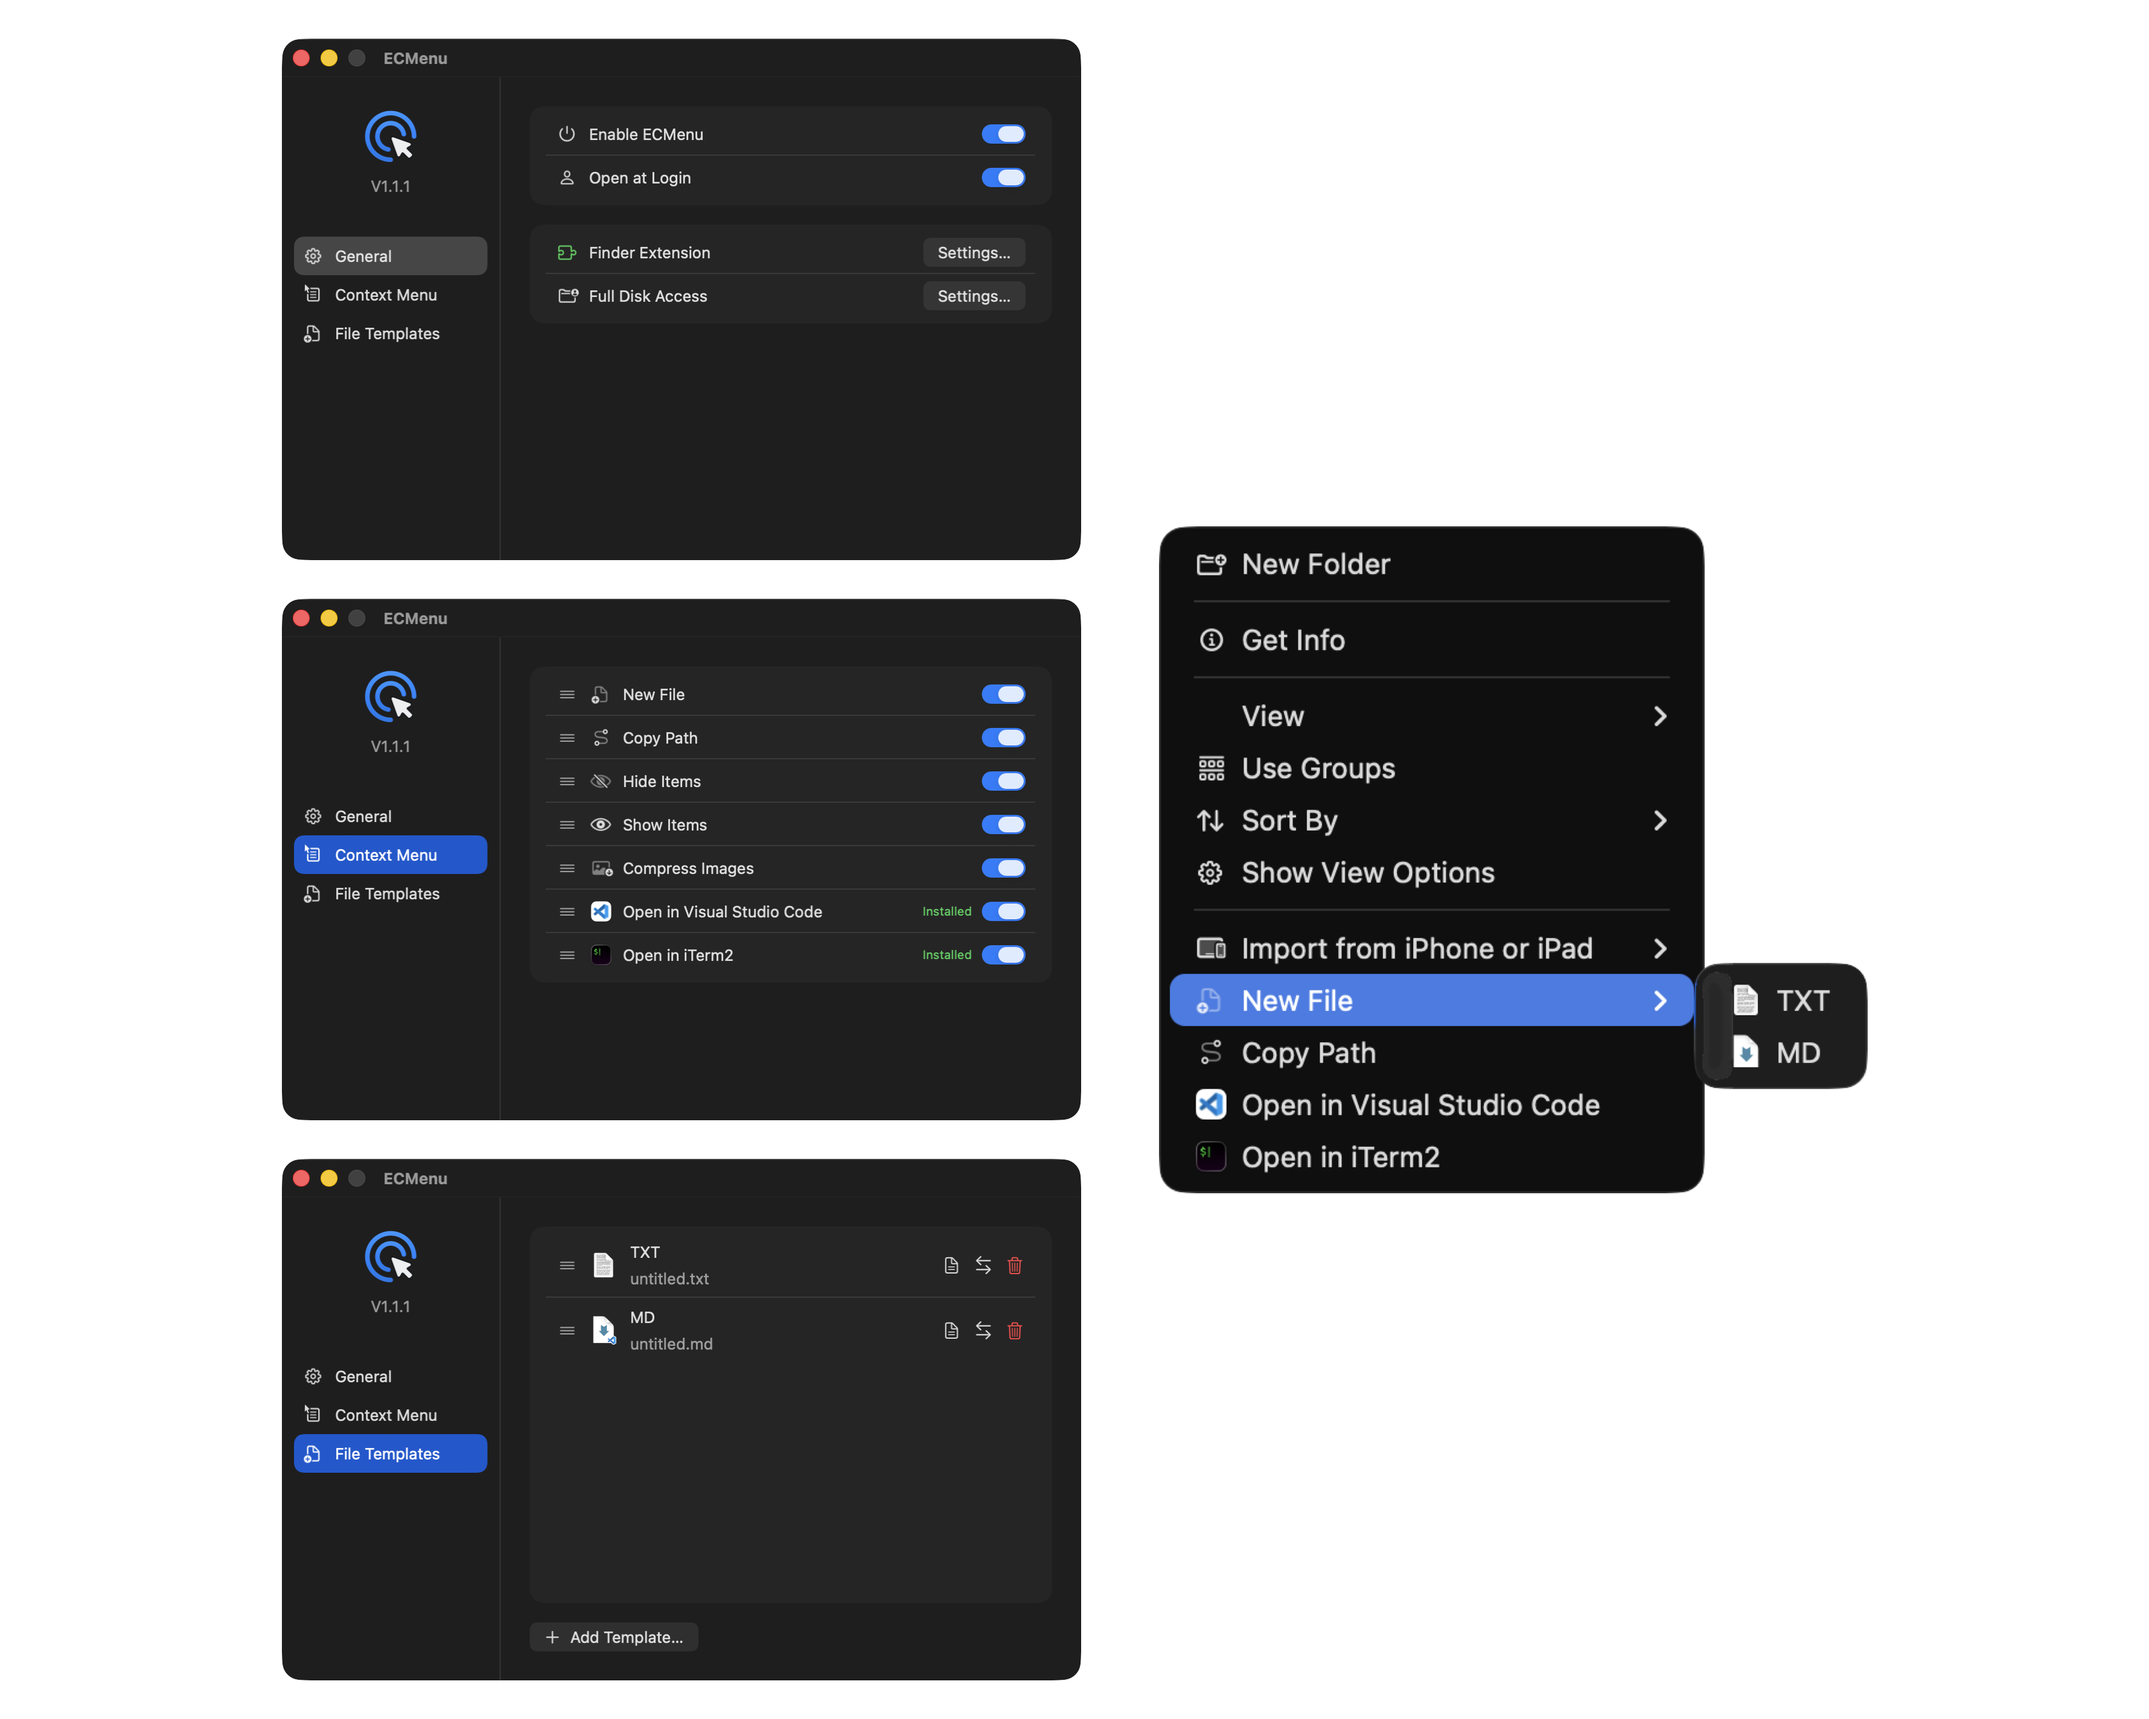
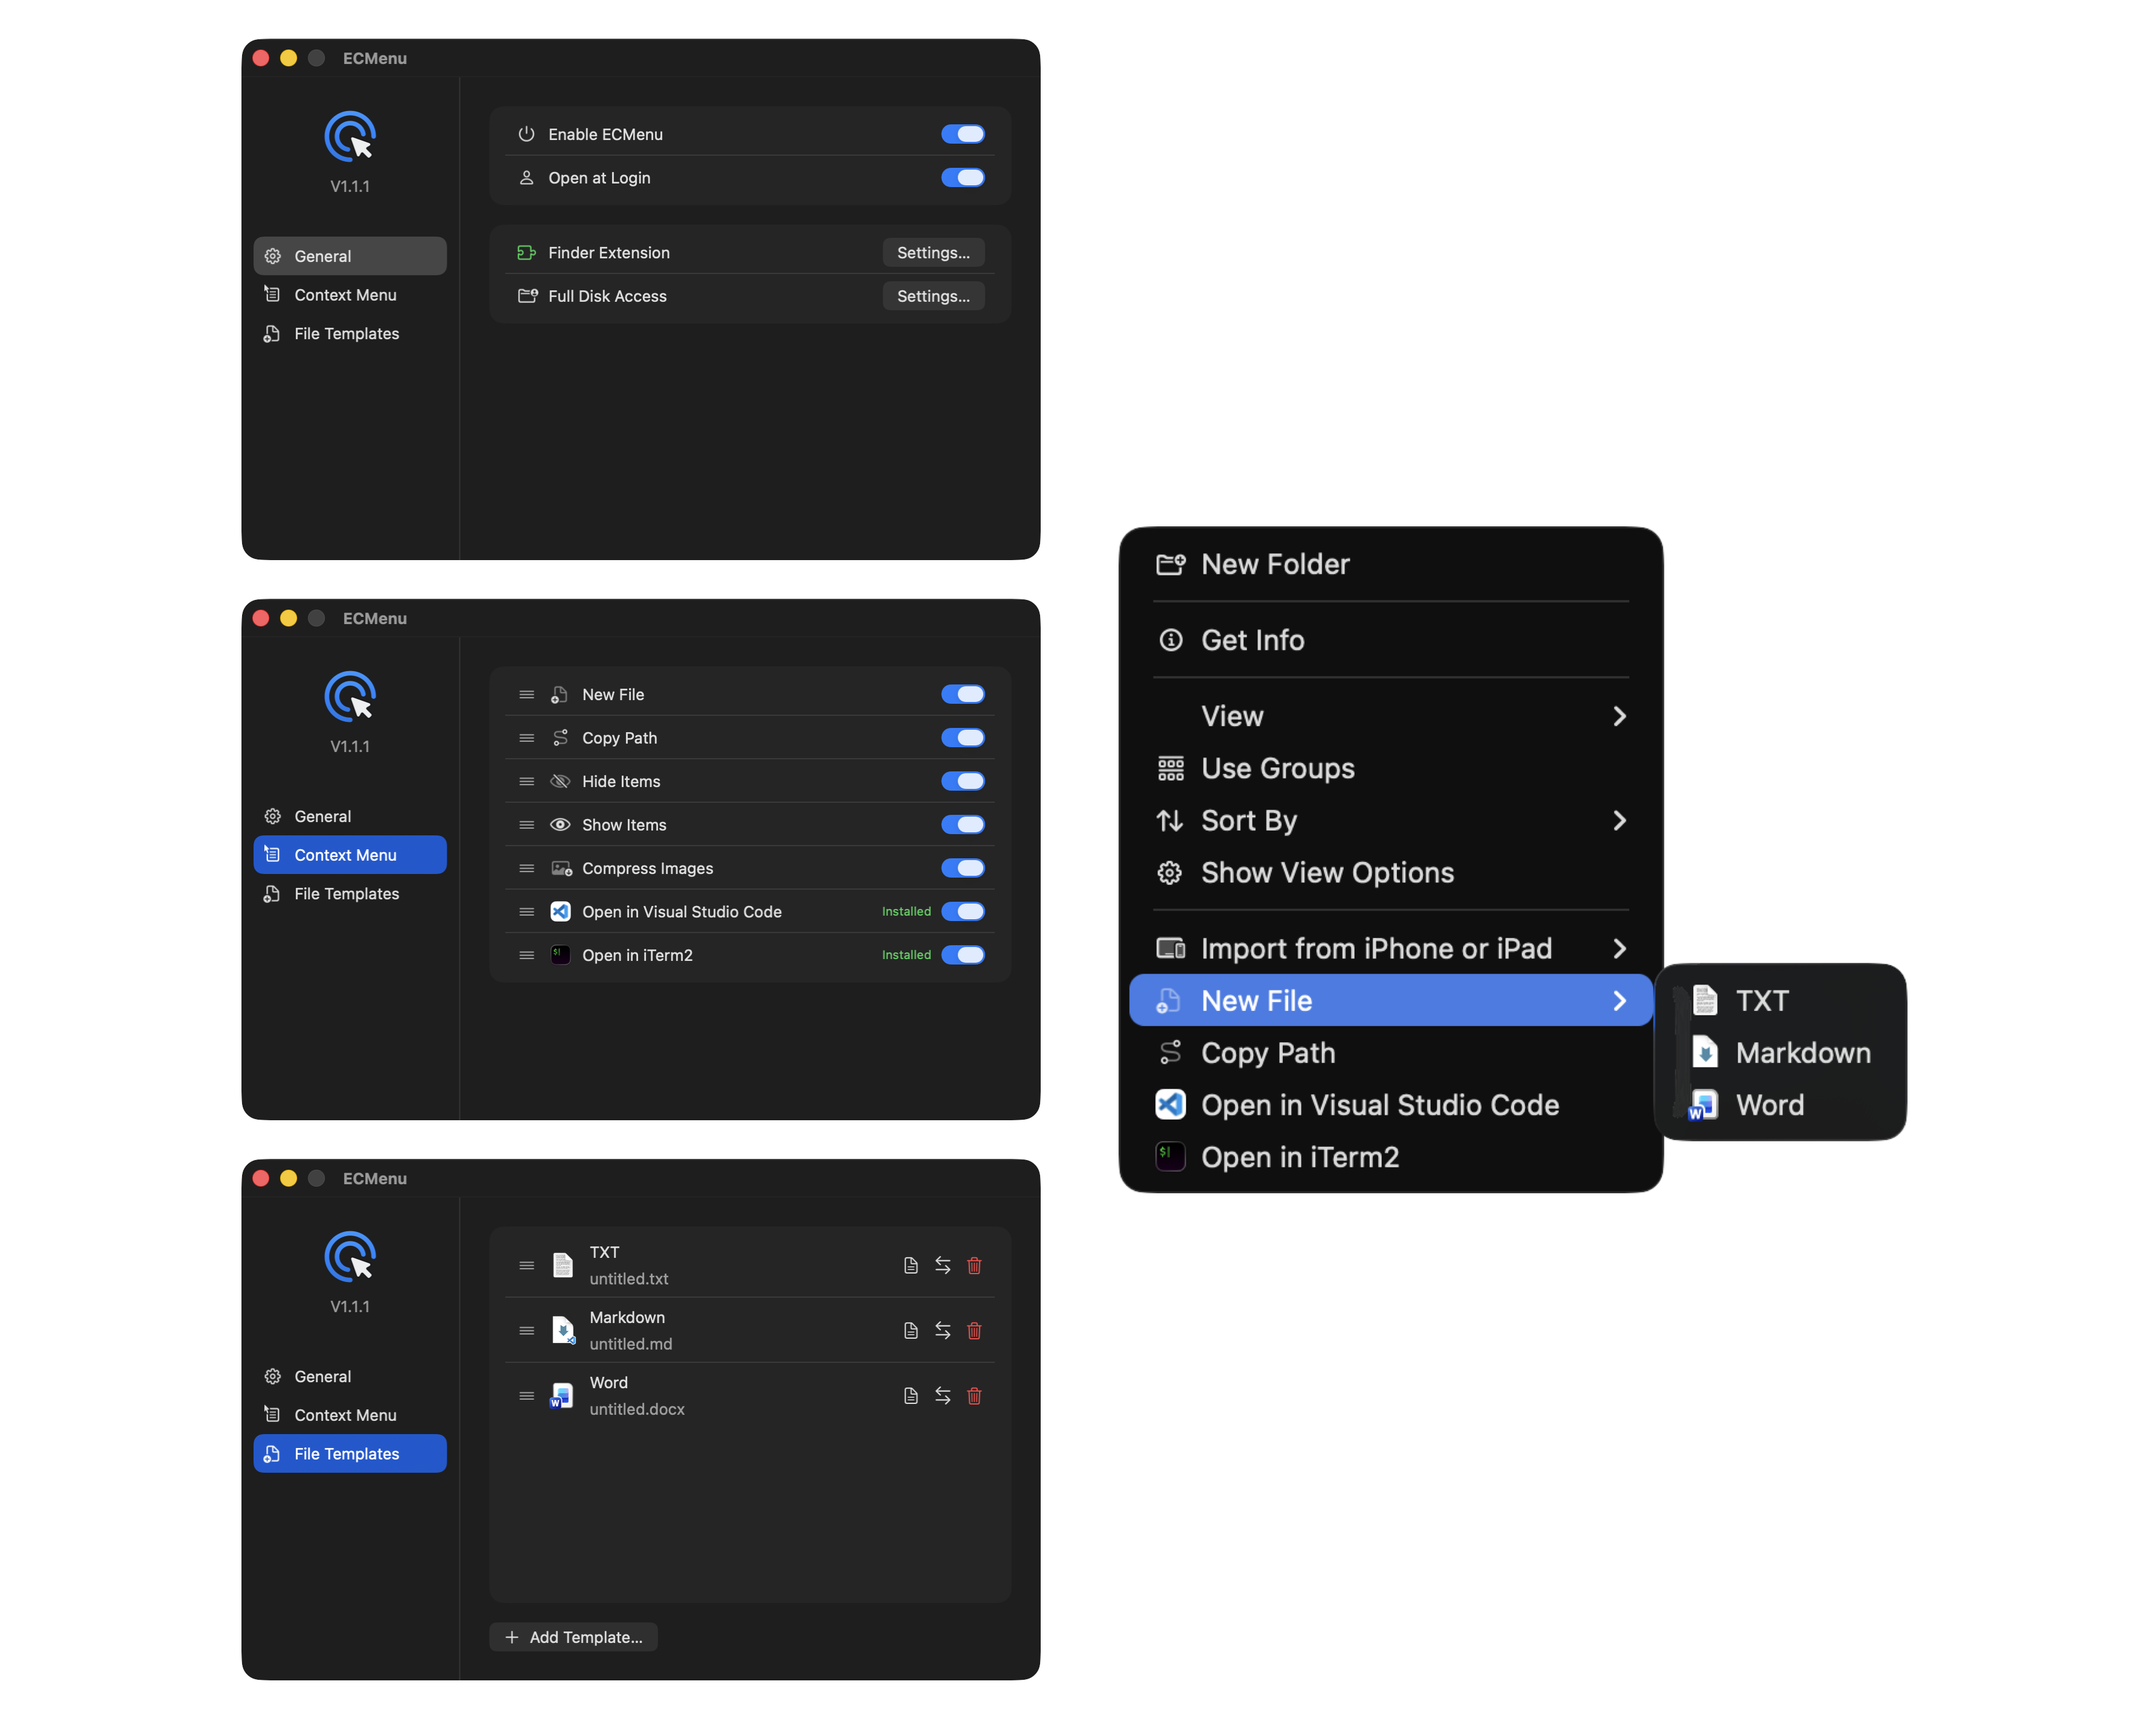
Update readme screenshots

diff --git a/Tests/ECMenuPreviews/Cases/READMEStatusPagePreview.swift b/Tests/ECMenuPreviews/Cases/READMEStatusPagePreview.swift
@@ -39,7 +39,8 @@ private enum READMEStatusPagePreviewState {
             applicationIcons: applicationIcons,
             fileTemplateState: .ready([
                 try! FileTemplate(displayName: "TXT", defaultFileName: "untitled.txt"),
-                try! FileTemplate(displayName: "MD", defaultFileName: "untitled.md"),
+                try! FileTemplate(displayName: "Markdown", defaultFileName: "untitled.md"),
+                try! FileTemplate(displayName: "Word", defaultFileName: "untitled.docx"),
             ])
         )
     }

diff --git a/spec/Technical/PreviewTarget.md b/spec/Technical/PreviewTarget.md
@@ -73,6 +73,6 @@
 
 批量截图脚本构建一次 Preview target，从注册表验证全部或调用方指定的场景，并串行捕获每个场景的英文和简体中文版本。Preview runtime 负责激活唯一可见顶层窗口；窗口成为 key window、完成布局和绘制，且窗口编号与尺寸跨一轮主循环保持稳定后，才通过标准输出发送 `READY <windowNumber>`。脚本按该窗口编号生成不含阴影的独立窗口截图，圆角外保持透明；截图完成后，runtime 再确认应用与窗口在整段捕获期间没有失焦，只保留通过确认的图片。截图不依赖辅助功能或外部模拟点击，批量截图与交互预览互斥运行。
 
-README 设置页场景分别覆盖通用、右键菜单和文件模板三个页面，与状态覆盖场景使用不同 Preview ID：前者固定全部开关开启，并在 Preview 边界通过 Launch Services 严格读取所需外部应用的真实图标；后者继续保留未批准、未启用和应用缺失等状态。README 文件模板页面固定使用 TXT 与 MD 两条内存样例。两者只共享生产 renderer 与无副作用的预览会话，不向产品代码加入文档截图分支。
+README 设置页场景分别覆盖通用、右键菜单和文件模板三个页面，与状态覆盖场景使用不同 Preview ID：前者固定全部开关开启，并在 Preview 边界通过 Launch Services 严格读取所需外部应用的真实图标；后者继续保留未批准、未启用和应用缺失等状态。README 文件模板页面依次使用 TXT、Markdown、Word 三条内存样例，对应 `.txt`、`.md`、`.docx` 后缀。两者只共享生产 renderer 与无副作用的预览会话，不向产品代码加入文档截图分支。
 
 构建、启动与截图参数见[开发脚本](../../scripts/Main.md#界面预览)。

diff --git a/spec/Technical/Architecture/Verification.md b/spec/Technical/Architecture/Verification.md
@@ -24,7 +24,7 @@
 
 ## 界面与真实 Finder
 
-1.1.1 中英文 README 图片由当前生产界面和真实 Finder 菜单重新捕获，运行标识 `20260911-220437-readme-image-capture-42365`。两张图片均为 3560 × 2848、5:4 透明画布，三个设置页纵向排列且显示 V1.1.1；新建文件展开一层 TXT/MD 子菜单，图标、文字和按钮完整可见。截图后恢复原 Debug 模板库、菜单偏好及语言，Finder 普通窗口数仍为零。版本化图片和 README 引用检查、图标设计源一致性检查通过。
+1.1.1 中英文 README 图片由生产设置页和真实 Finder 菜单捕获：设置预览运行标识 `20260911-233132-localized-previews-53120`，菜单为 `20260911-233326-finder-menu-capture-54042`，合成为 `20260911-233408-readme-composition-54734`。两张图片均为 3560 × 2848、5:4 透明画布，三个设置页纵向排列且显示 V1.1.1；模板页和新建文件一级子菜单依次显示 TXT、Markdown、Word，对应 `.txt`、`.md`、`.docx`，图标、文字和按钮完整可见。拍摄结束后恢复 Release 环境及原两个 Finder 目录窗口，模板内容与相关偏好前后核对一致。版本化图片和 README 引用检查通过。
 
 2026-09-11 独立中文 Preview `20260911-214156-preview-ui-38659` 确认文件模板导航与新建文件设置行的 `document.badge.plus` 完整显示，模板行的打开、更换和删除均为同尺寸无边框图标按钮；打开和更换使用普通前景色，删除为红色。AX 树保留三个操作的本地化按钮名称，以及打开和更换的帮助文字。该检查使用内存模板，不执行外部打开或文件替换。
 

diff --git a/AGENTS.md b/AGENTS.md
@@ -33,7 +33,8 @@
 
 - 项目相关的构建、测试和运行产物必须留在仓库内，不使用系统临时目录保存它们。
 - `.derivedData/` 只作为 Xcode Derived Data 根目录；脚本可以读取其中的构建产品，但不得在其中创建自定义日志、测试 fixture、探针、截图或发布物。
-- `.artifacts/scratch/` 只保存一次运行或调查产生的可重建内容，按 `logs/`、`tests/`、`probes/`、`previews/` 分类。单次运行产物的顶层文件或目录使用 `YYYYMMDD-HHMMSS-<purpose>-<pid>` 命名；没有相关任务运行时，整个 `scratch/` 均可删除。每次 release 时清理。
+- `.artifacts/scratch/` 只保存一次运行或调查产生的可重建内容，按 `logs/`、`tests/`、`probes/`、`previews/` 分类。单次运行产物的顶层文件或目录使用 `YYYYMMDD-HHMMSS-<purpose>-<pid>` 命名；没有相关任务运行时，整个 `scratch/` 均可删除。
+- 每次 release 时清理 `.derivedData/` 与 `.artifacts/scratch/`。
 - 可重复执行的测试与预览定义维护在 `Tests/`（预览宿主位于 `Tests/ECMenuPreviews/`），诊断入口维护在 `scripts/`；源码、正式配置和持久文档不得依赖 `scratch/`，需要保留的结论写入相应文档。
 - 正式交付物位于 `.artifacts/releases/<version>+<build>/`；已有的非空版本目录不得静默覆盖。
 - 日常 Debug 构建与运行使用 `./scripts/run-debug.sh`，完整测试使用 `./scripts/test.sh`；共享 `.derivedData/` 或 Finder 登记状态的脚本顺序执行。删除 `.derivedData/` 前，先停止并注销从其中运行的应用和 Finder Extension。
